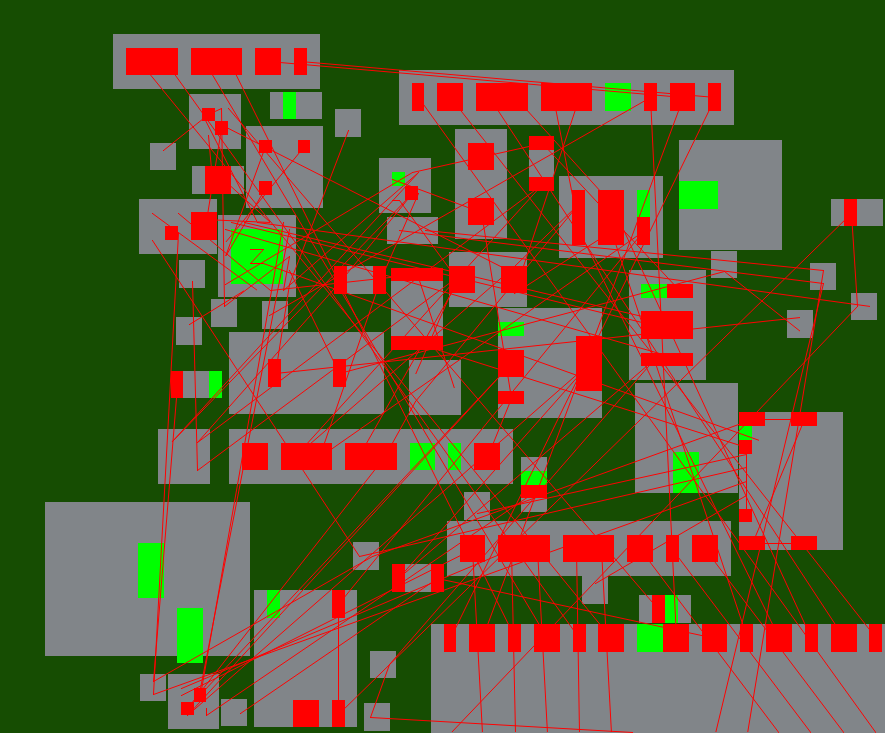
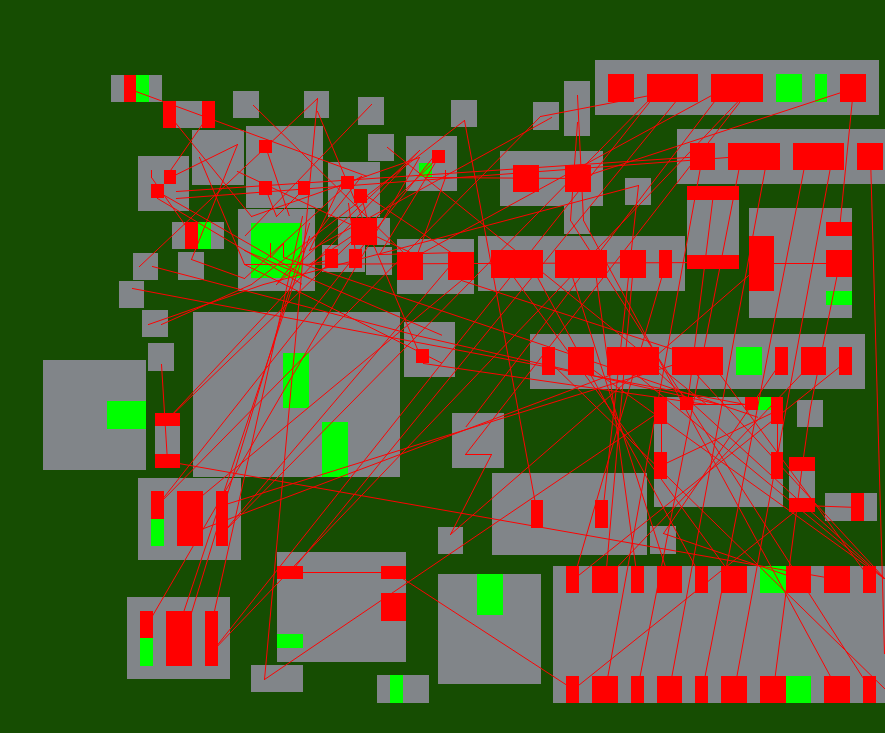
switch to fp for selection

diff --git a/pcb-layout/src/ga.rs b/pcb-layout/src/ga.rs
@@ -16,8 +16,9 @@ fn random_rotation() -> i32 {
     let choice = opts.choose(&mut rng).unwrap();
     *choice
 }
+/// Helper function for drawing each net
+/// 
 fn draw_nets( pins_by_net : BTreeMap<i32, Vec<(f64,f64)>>)  -> Vec<PathElement<(f64,f64)>>{
-    println!("{:?}", pins_by_net);
     let mut end_v:Vec<PathElement<(f64,f64)>>  = Vec::new();
     for v in pins_by_net.values(){
         let mut tmp_points = v.clone();
@@ -94,7 +95,7 @@ impl Individual {
             }
         }
         let net_paths = draw_nets(pins_by_net);
-        println!("{}",net_paths.len());
+        //println!("{}",net_paths.len());
         for path in net_paths{
             let _ = backend.draw(&path);
         }
@@ -153,7 +154,7 @@ impl Individual {
         }
         true
     }
-    fn move_to_new(&mut self, a: usize) {
+    fn move_to_new(&mut self, a: usize) -> bool {
         let mut rng = rand::rng();
         //let qk_comp = self.comp_list[a - 1].bbox;
         let x = rng.random_range(self.pl_area.x1..self.pl_area.x2);
@@ -165,6 +166,7 @@ impl Individual {
         if debug && mved {
             println!("{:?} : new points{},{}", self.pl_area, x, y);
         }
+        mved
     }
 
     fn score(&mut self) -> f64 {
@@ -249,7 +251,7 @@ impl Individual {
         child
     }
 
-    fn mutate(&mut self) {
+    fn mutate(&mut self) -> bool {
         let mut rng = rand::rng();
         let a = rng.random_range(1..self.comp_list.len() + 1);
         let c = rng.random_range(1..4);
@@ -257,15 +259,15 @@ impl Individual {
         match c {
             1 => {
                 let b = rng.random_range(1..self.comp_list.len() + 1);
-                self.swap(a, b);
+                self.swap(a, b)
             }
             2 => {
-                self.move_to_new(a);
+                self.move_to_new(a)
             }
             3 => {
-                self.rotate(a, random_rotation());
+                self.rotate(a, random_rotation())
             }
-            _ => {}
+            _ => {false}
         }
     }
 }
@@ -296,7 +298,7 @@ pub fn generate_animation(pl: Placement) -> Vec<String> {
     }
     file_names
 }
-fn ev_selection( population : & mut Vec<Individual>){
+pub fn ev_selection( population : & mut Vec<Individual>){
     let weights: Vec<f64> = population.iter().map(|i| i.fitness).collect();
     let dist = WeightedIndex::new(&weights).unwrap();
     let pop_size = population.len();
@@ -320,7 +322,7 @@ fn ev_selection( population : & mut Vec<Individual>){
         population.truncate(pop_size as usize);
 
 }
-fn elitist_selection( population : & mut Vec<Individual>){
+pub fn elitist_selection( population : & mut Vec<Individual>){
     let pop_size = population.len();
     for i in (0..pop_size).step_by(2) {
         let parent_a: &Individual = &population[i as usize];
@@ -340,7 +342,8 @@ fn elitist_selection( population : & mut Vec<Individual>){
     population.truncate(pop_size as usize);
     
 }
-pub fn genetic_algorithim(pl: Placement, pop_size: u32, num_generations: u32, output: bool) -> Vec<f64> {
+/// The actual runner for our GA
+pub fn genetic_algorithim(pl: Placement, pop_size: u32, num_generations: u32, output: bool, selection_algo: fn( & mut Vec<Individual>) -> () ) -> Vec<f64> {
     let mut population: Vec<Individual> = Vec::new();
     let mut scores: Vec<f64> = Vec::new();
     for _ in 0..pop_size {
@@ -364,11 +367,12 @@ pub fn genetic_algorithim(pl: Placement, pop_size: u32, num_generations: u32, ou
     let now = Instant::now();
     for _ in 0..num_generations {
         for ind in &mut population {
-            ind.mutate();
-            ind.score();
+            if ind.mutate(){
+                ind.score();
+            }
         }
         //elitist_selection(&mut population);
-        ev_selection(&mut population);
+        selection_algo(&mut population);
         scores.push(population[0].fitness);
     }
     /*

diff --git a/pcb-layout/src/main.rs b/pcb-layout/src/main.rs
@@ -4,7 +4,7 @@ mod kicad_parse;
 use kicad_parse::parse_file;
 use clap::Parser;
 mod ga;
-use ga::{Individual, genetic_algorithim, generate_animation};
+use ga::{elitist_selection, ev_selection, generate_animation, genetic_algorithim, Individual};
 
 /*
 fn synth_pl() {
@@ -83,7 +83,7 @@ fn tester(pl: Placement) {
         (500, 200 * gen_mult),
     ];
     for i in test_cases {
-        genetic_algorithim(pl.clone(), i.0, i.1, true);
+        genetic_algorithim(pl.clone(), i.0, i.1, true, ev_selection);
     }
 }
 
@@ -113,17 +113,25 @@ struct Args {
 }
 fn main() {
     let args = Args::parse();
+    //Parse Our Kicad and put it at 0,0 
+    // (We can always move this back)
     let mut pl2: Placement = parse_file(&args.file);
     pl2.shift_placement(0.0, 0.0);
     
+    
     let test = args.test;
     let anim = args.animate;
+    let sel_type = args.selection;
+    let mut selection_algo: fn(&mut Vec<Individual>) = ev_selection;
+    if sel_type{
+        selection_algo = elitist_selection;
+    }
     if test {
         tester(pl2);
     } else {
         if ! anim{
 
-            let _scores =genetic_algorithim(pl2, args.population_size, args.generations, true);
+            let _scores =genetic_algorithim(pl2, args.population_size, args.generations, true, selection_algo);
         }else{
             let _ = generate_animation(pl2);
         }

diff --git a/pcb-layout/src/plcmnt.rs b/pcb-layout/src/plcmnt.rs
@@ -1,4 +1,3 @@
-#![allow(dead_code)]
 use num::integer::gcd;
 use plotters::prelude::LogScalable;
 use plotters::prelude::*;
